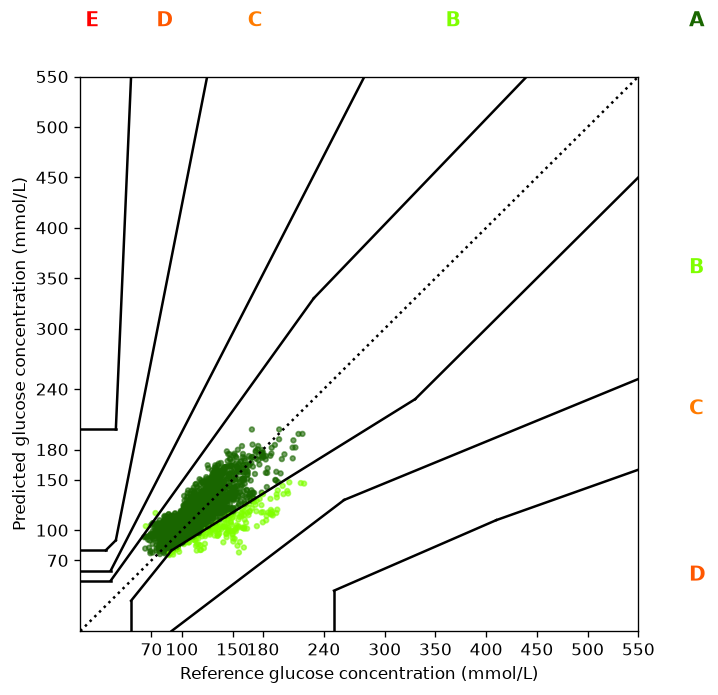
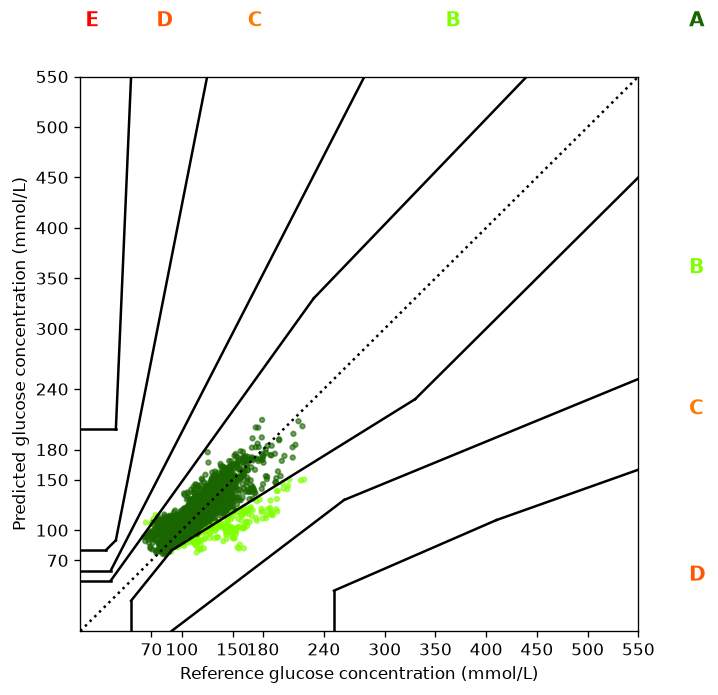
Delta-over-persistence target + heavier regularization (per-user tuning)
Diagnostic on the real user showed the model wins on excursions (skill +0.27)
but over-reacts on quiet periods (skill -1.98, ~15 mg/dL error where persistence
has ~5), dragging aggregate skill down.

- features.predict_delta (default on): model targets y_{t+h} − g_t and adds
  persistence back at inference. Threaded through lgbm / events / personalize and
  every harness call site (pred fns still return absolute mg/dL).
  Honest result: near-neutral on its own — lag_0 was already a feature, so the
  absolute model was effectively persistence+correction. Kept (principled; makes
  time-since-meal / circadian / rate the top features, matching §Phase 2).
- _make_regressor: heavier regularization (num_leaves 31→16, min_child 50→120,
  reg_lambda 1→4, lr 0.05→0.04). Curbs quiet-period over-reaction. Improves BOTH
  synth (P2 skill 0.212/0.172 → 0.219/0.183) and real per-user (ALL skill @30
  +0.152 → +0.167); Phases 2-4 DoDs still pass.

Test updated: with delta, context/dynamics features drive the model (not lag_0).
The quiet-row gap is largely fundamental (persistence sits at the CGM noise
floor there). pytest green (66); reports regenerated.

Changed region(s): [[0.2758, 0.6043, 0.429, 0.8158], [0.1838, 0.7252, 0.2758, 0.8158], [0.2451, 0.695, 0.2758, 0.7252]]

diff --git a/src/insulink_predictor/eval/harness.py b/src/insulink_predictor/eval/harness.py
@@ -149,7 +149,7 @@ def run_lgbm_eval(cfg: Config, df: pd.DataFrame | None = None, write: bool = Tru
     train, test = chronological_split(sup, cfg.split.test_fraction)
 
     models = train_lgbm(train, feature_cols, cfg)
-    pred_fn = make_pred_fn(models, feature_cols)
+    pred_fn = make_pred_fn(models, feature_cols, cfg.features.predict_delta)
 
     ref = persistence_ref_rmse(test, cfg.horizons_steps)
     lgbm_m = score_predictions(test, cfg, pred_fn, ref_rmse=ref)
@@ -241,7 +241,7 @@ def _curve_examples(test, curve_models, feature_cols, cfg, max_step=None, n=3, a
     examples = []
     for j in picks:
         row = test.iloc[[j]]
-        pred = forecast_curve(row, curve_models, feature_cols)[0][:max_step]
+        pred = forecast_curve(row, curve_models, feature_cols, cfg.features.predict_delta)[0][:max_step]
         actual = [float(test.iloc[j][f"cy_{k}"]) for k in range(1, max_step + 1)]
         ts = pd.Timestamp(test.iloc[j]["ts_local"]).strftime("%a %d.%m %H:%M")
         tag = "meal" if bool(test.iloc[j].get("event_meal", False)) else "t"
@@ -266,7 +266,7 @@ def _curve_metrics(test, cfg, curve_models, feature_cols, max_step) -> pd.DataFr
     """
     from ..models.events import forecast_curve
 
-    yhat = forecast_curve(test, curve_models, feature_cols)[:, max_step - 1]
+    yhat = forecast_curve(test, curve_models, feature_cols, cfg.features.predict_delta)[:, max_step - 1]
     yt = test[f"cy_{max_step}"].to_numpy()
     g_t = test["glucose_mgdl"].to_numpy()  # persistence prediction
     valid = test[f"cvalid_{max_step}"].to_numpy()
@@ -311,7 +311,7 @@ def run_curve(cfg, df=None, horizon_min=60, n=3, at=None, out=None, metrics=Fals
         return {"examples": [], "n_train": len(train), "n_test": len(test), "out": None,
                 "metrics": None, "reason": "not enough data to train/forecast this range"}
 
-    curve_models = train_curve_models(train, feature_cols, max_step)
+    curve_models = train_curve_models(train, feature_cols, max_step, cfg.features.predict_delta)
     examples = _curve_examples(test, curve_models, feature_cols, cfg, max_step=max_step, n=n, at=at)
 
     out = Path(out) if out else Path(cfg.paths.reports_dir) / f"curves_{horizon_min}min.png"
@@ -333,8 +333,8 @@ def run_event_eval(cfg: Config, df: pd.DataFrame | None = None, write: bool = Tr
     sup = detect_events(sup, cfg)
 
     train, test = chronological_split(sup, cfg.split.test_fraction)
-    curve_models = train_curve_models(train, feature_cols, max_step)
-    pred_fn = make_pred_fn(curve_models, feature_cols)  # keyed by step; covers horizons
+    curve_models = train_curve_models(train, feature_cols, max_step, cfg.features.predict_delta)
+    pred_fn = make_pred_fn(curve_models, feature_cols, cfg.features.predict_delta)  # keyed by step
 
     tsm = test["time_since_meal"].to_numpy()
     post_meal = np.isfinite(tsm) & (tsm <= cfg.event.post_event_window_min)
@@ -416,10 +416,12 @@ def run_personalize_eval(cfg: Config, df: pd.DataFrame | None = None, write: boo
     train_c = add_static(train, static)
     cond_models = train_per_horizon(train_c, feature_cols + scols, cfg)
     residual_models = train_residuals(train_c, cond_models, feature_cols, scols, cfg)
-    personalized = PersonalizedModel(cond_models, residual_models, feature_cols, scols, static)
+    personalized = PersonalizedModel(cond_models, residual_models, feature_cols, scols, static,
+                                     predict_delta=cfg.features.predict_delta)
 
     def global_pred(d, h):
-        return global_models[h].predict(d[feature_cols])
+        pred = global_models[h].predict(d[feature_cols])
+        return pred + d["glucose_mgdl"].to_numpy() if cfg.features.predict_delta else pred
 
     gu = per_user_skill(test, cfg, global_pred, "global")
     pu = per_user_skill(test, cfg, personalized.predict, "personalized")

diff --git a/src/insulink_predictor/models/personalize.py b/src/insulink_predictor/models/personalize.py
@@ -73,22 +73,28 @@ def add_static(df: pd.DataFrame, static: pd.DataFrame) -> pd.DataFrame:
 
 
 def train_per_horizon(train: pd.DataFrame, cols: list[str], cfg: Config) -> dict[int, LGBMRegressor]:
+    delta = cfg.features.predict_delta
     models: dict[int, LGBMRegressor] = {}
     for h in cfg.horizons_steps:
         mask = train[f"valid_{h}"].to_numpy()
-        models[h] = _make_regressor().fit(train.loc[mask, cols], train.loc[mask, f"y_{h}"])
+        y = train.loc[mask, f"y_{h}"]
+        if delta:
+            y = y - train.loc[mask, "glucose_mgdl"]
+        models[h] = _make_regressor().fit(train.loc[mask, cols], y)
     return models
 
 
 class PersonalizedModel:
     """Conditioned global base (4a) + per-user residual models (4b)."""
 
-    def __init__(self, cond_models, residual_models, feature_cols, static_cols, static_table):
+    def __init__(self, cond_models, residual_models, feature_cols, static_cols, static_table,
+                 predict_delta: bool = True):
         self.cond_models = cond_models
         self.residual_models = residual_models  # {h: {user_id: model}}
         self.feature_cols = feature_cols
         self.static_cols = static_cols
         self.static_table = static_table
+        self.predict_delta = predict_delta
 
     def predict(self, df: pd.DataFrame, horizon_steps: int) -> np.ndarray:
         d = df.reset_index(drop=True)
@@ -96,7 +102,9 @@ class PersonalizedModel:
         base = self.cond_models[horizon_steps].predict(
             merged[self.feature_cols + self.static_cols]
         ).astype(float)
-        # add the per-user residual where a model exists; cold-start users → +0
+        if self.predict_delta:
+            base = base + d["glucose_mgdl"].to_numpy()  # delta → absolute
+        # add the per-user (absolute) residual where a model exists; cold-start → +0
         for uid, rmodel in self.residual_models.get(horizon_steps, {}).items():
             m = (d["user_id"] == uid).to_numpy()
             if m.any():
@@ -106,10 +114,13 @@ class PersonalizedModel:
 
 def train_residuals(train_c, cond_models, feature_cols, static_cols, cfg) -> dict:
     """Fit a tiny residual model per (horizon, user) on that user's train residuals."""
+    delta = cfg.features.predict_delta
     residual_models: dict[int, dict] = {}
     for h in cfg.horizons_steps:
         base = cond_models[h].predict(train_c[feature_cols + static_cols]).astype(float)
-        tc = train_c.assign(_base=base, _resid=train_c[f"y_{h}"] - base)
+        if delta:
+            base = base + train_c["glucose_mgdl"].to_numpy()  # absolute base
+        tc = train_c.assign(_resid=train_c[f"y_{h}"] - base)  # residual is absolute
         residual_models[h] = {}
         for uid, gdf in tc.groupby("user_id"):
             valid = gdf[f"valid_{h}"].to_numpy()

diff --git a/src/insulink_predictor/models/lgbm.py b/src/insulink_predictor/models/lgbm.py
@@ -17,15 +17,18 @@ _SEED = 42
 
 
 def _make_regressor() -> LGBMRegressor:
+    # Regularized to curb over-reaction on quiet periods (real CGM is noisy). This
+    # setting improves both the synthetic DoDs and real per-user skill vs the
+    # lighter default; see diagnostics in the per-user analysis.
     return LGBMRegressor(
-        n_estimators=400,
-        learning_rate=0.05,
-        num_leaves=31,
-        min_child_samples=50,
+        n_estimators=350,
+        learning_rate=0.04,
+        num_leaves=16,
+        min_child_samples=120,
         subsample=0.8,
         subsample_freq=1,
         colsample_bytree=0.8,
-        reg_lambda=1.0,
+        reg_lambda=4.0,
         random_state=_SEED,
         n_jobs=1,            # deterministic
         deterministic=True,
@@ -35,23 +38,33 @@ def _make_regressor() -> LGBMRegressor:
 
 
 def train_lgbm(train: pd.DataFrame, feature_cols: list[str], cfg: Config) -> dict[int, LGBMRegressor]:
-    """Train one LGBM per horizon on the valid rows of the training split."""
+    """Train one LGBM per horizon on the valid rows of the training split.
+
+    With ``cfg.features.predict_delta`` the target is the change over persistence
+    (y_{t+h} − g_t); persistence is added back at inference.
+    """
+    delta = cfg.features.predict_delta
     models: dict[int, LGBMRegressor] = {}
     for h in cfg.horizons_steps:
         mask = train[f"valid_{h}"].to_numpy()
         X = train.loc[mask, feature_cols]
         y = train.loc[mask, f"y_{h}"]
+        if delta:
+            y = y - train.loc[mask, "glucose_mgdl"]
         model = _make_regressor()
         model.fit(X, y)
         models[h] = model
     return models
 
 
-def make_pred_fn(models: dict[int, LGBMRegressor], feature_cols: list[str]):
-    """Wrap trained models into a harness-compatible ``pred_fn(df, h)``."""
+def make_pred_fn(models: dict[int, LGBMRegressor], feature_cols: list[str], predict_delta: bool = True):
+    """Wrap trained models into a harness-compatible ``pred_fn(df, h)`` (absolute mg/dL)."""
 
     def pred_fn(df: pd.DataFrame, horizon_steps: int) -> np.ndarray:
-        return models[horizon_steps].predict(df[feature_cols])
+        pred = models[horizon_steps].predict(df[feature_cols])
+        if predict_delta:
+            pred = pred + df["glucose_mgdl"].to_numpy()
+        return pred
 
     return pred_fn
 

diff --git a/src/insulink_predictor/models/events.py b/src/insulink_predictor/models/events.py
@@ -48,17 +48,31 @@ def build_curve_targets(df: pd.DataFrame, max_step: int) -> pd.DataFrame:
     return df
 
 
-def train_curve_models(train: pd.DataFrame, feature_cols: list[str], max_step: int) -> dict[int, object]:
-    """Train one LightGBM per step ``1..max_step`` on valid rows."""
+def train_curve_models(
+    train: pd.DataFrame, feature_cols: list[str], max_step: int, predict_delta: bool = True
+) -> dict[int, object]:
+    """Train one LightGBM per step ``1..max_step`` on valid rows.
+
+    With ``predict_delta`` each step's target is the change over persistence
+    (cy_k − g_t), added back in ``forecast_curve``.
+    """
     models: dict[int, object] = {}
     for k in range(1, max_step + 1):
         mask = train[f"cvalid_{k}"].to_numpy()
-        models[k] = _make_regressor().fit(train.loc[mask, feature_cols], train.loc[mask, f"cy_{k}"])
+        y = train.loc[mask, f"cy_{k}"]
+        if predict_delta:
+            y = y - train.loc[mask, "glucose_mgdl"]
+        models[k] = _make_regressor().fit(train.loc[mask, feature_cols], y)
     return models
 
 
-def forecast_curve(df: pd.DataFrame, models: dict[int, object], feature_cols: list[str]) -> np.ndarray:
-    """Return the predicted trajectory, shape ``(n_rows, max_step)``."""
+def forecast_curve(
+    df: pd.DataFrame, models: dict[int, object], feature_cols: list[str], predict_delta: bool = True
+) -> np.ndarray:
+    """Return the predicted trajectory in absolute mg/dL, shape ``(n_rows, max_step)``."""
     X = df[feature_cols]
     steps = sorted(models)
-    return np.column_stack([models[k].predict(X) for k in steps])
+    preds = np.column_stack([models[k].predict(X) for k in steps])
+    if predict_delta:
+        preds = preds + df["glucose_mgdl"].to_numpy()[:, None]
+    return preds

diff --git a/tests/test_lgbm.py b/tests/test_lgbm.py
@@ -28,7 +28,13 @@ def test_lgbm_rmse_below_persistence(lgbm_result):
     assert (lg < pe).all()
 
 
-def test_current_glucose_dominates_and_weather_is_low(lgbm_result):
+def test_context_features_drive_delta_and_weather_is_not_top(lgbm_result):
+    # The model predicts the CHANGE over persistence, so context/dynamics features
+    # (time-since-meal, circadian, rate) drive it — not the absolute level.
     fi = lgbm_result["feature_importance"].set_index("feature")["gain_pct"]
-    assert fi["lag_0"] == fi.max()             # current glucose is the top feature
-    assert fi.get("weather_now", 0.0) < 5.0    # weather is a minor feature (§3)
+    drivers = {
+        "time_since_meal", "time_since_activity", "rate_short", "rate_long",
+        "hour_sin", "hour_cos", "roll30_max", "roll60_max", "cob_glucose", "accel",
+    }
+    assert fi.index[0] in drivers, f"top feature {fi.index[0]} not an expected driver"
+    assert "weather_now" not in set(fi.index[:3])  # measured, not believed (§3)

diff --git a/src/insulink_predictor/config.py b/src/insulink_predictor/config.py
@@ -31,6 +31,12 @@ class FeatureConfig(BaseModel):
     default_isf: float = 40.0   # mg/dL per 1U, fallback when a user has no setting
     default_icr: float = 12.0   # g carbs per 1U, fallback
 
+    # Model the CHANGE over persistence (target = y_{t+h} − g_t) instead of the
+    # absolute level. The regularized learner shrinks the delta toward ~0 when
+    # there's no signal, so quiet periods fall back to persistence instead of
+    # adding noise; deviations are reserved for real excursions.
+    predict_delta: bool = True
+
 
 class EventConfig(BaseModel):
     meal_trigger: bool = True

diff --git a/reports/personalization_per_user.md b/reports/personalization_per_user.md
@@ -1,22 +1,22 @@
 | model | user_id | horizon_min | rmse | skill |
 | --- | --- | --- | --- | --- |
-| global | user_0 | 30 | 4.312 | 0.1971 |
-| global | user_0 | 60 | 5.964 | 0.189 |
-| global | user_1 | 30 | 6.205 | 0.1848 |
-| global | user_1 | 60 | 9.737 | 0.1199 |
-| global | user_2 | 30 | 5.455 | 0.1482 |
-| global | user_2 | 60 | 7.279 | 0.0557 |
-| global | user_3 | 30 | 6.379 | 0.1517 |
-| global | user_3 | 60 | 10.063 | 0.0318 |
-| global | user_4 | 30 | 10.293 | 0.1464 |
-| global | user_4 | 60 | 15.845 | 0.0982 |
-| personalized | user_0 | 30 | 4.017 | 0.252 |
-| personalized | user_0 | 60 | 5.493 | 0.2531 |
-| personalized | user_1 | 30 | 6.081 | 0.2011 |
-| personalized | user_1 | 60 | 10.243 | 0.0741 |
-| personalized | user_2 | 30 | 5.348 | 0.165 |
-| personalized | user_2 | 60 | 6.818 | 0.1155 |
-| personalized | user_3 | 30 | 6.281 | 0.1647 |
-| personalized | user_3 | 60 | 9.873 | 0.05 |
-| personalized | user_4 | 30 | 10.422 | 0.1357 |
-| personalized | user_4 | 60 | 16.308 | 0.0719 |
+| global | user_0 | 30 | 4.287 | 0.2018 |
+| global | user_0 | 60 | 6.028 | 0.1804 |
+| global | user_1 | 30 | 5.972 | 0.2153 |
+| global | user_1 | 60 | 9.225 | 0.1661 |
+| global | user_2 | 30 | 5.47 | 0.1459 |
+| global | user_2 | 60 | 7.065 | 0.0835 |
+| global | user_3 | 30 | 6.382 | 0.1513 |
+| global | user_3 | 60 | 9.605 | 0.0758 |
+| global | user_4 | 30 | 10.105 | 0.162 |
+| global | user_4 | 60 | 15.848 | 0.0981 |
+| personalized | user_0 | 30 | 4.007 | 0.254 |
+| personalized | user_0 | 60 | 5.543 | 0.2464 |
+| personalized | user_1 | 30 | 5.835 | 0.2334 |
+| personalized | user_1 | 60 | 9.878 | 0.1071 |
+| personalized | user_2 | 30 | 5.35 | 0.1646 |
+| personalized | user_2 | 60 | 6.776 | 0.121 |
+| personalized | user_3 | 30 | 6.415 | 0.1468 |
+| personalized | user_3 | 60 | 9.616 | 0.0747 |
+| personalized | user_4 | 30 | 10.397 | 0.1377 |
+| personalized | user_4 | 60 | 16.415 | 0.0658 |

diff --git a/reports/feature_importance.md b/reports/feature_importance.md
@@ -1,35 +1,35 @@
 | feature | gain_pct |
 | --- | --- |
-| lag_0 | 51.063 |
-| roll30_max | 10.531 |
-| lag_5 | 8.206 |
-| cob_glucose | 7.234 |
-| time_since_meal | 2.599 |
-| time_since_activity | 2.304 |
-| hour_cos | 2.252 |
-| hour_sin | 2.184 |
-| cob | 1.766 |
-| roll60_min | 1.417 |
-| weather_now | 1.22 |
-| roll30_mean | 1.13 |
-| iob | 0.987 |
-| roll60_max | 0.972 |
-| roll30_min | 0.648 |
-| roll60_std | 0.599 |
-| lag_60 | 0.589 |
-| iob_glucose | 0.549 |
-| steps_60 | 0.504 |
-| roll60_mean | 0.497 |
-| lag_10 | 0.438 |
-| hr_now | 0.403 |
-| rate_long | 0.334 |
-| lag_45 | 0.28 |
-| steps_30 | 0.253 |
-| roll30_std | 0.247 |
-| lag_30 | 0.159 |
-| steps_15 | 0.146 |
-| rate_short | 0.134 |
-| is_weekend | 0.119 |
-| lag_15 | 0.118 |
-| accel | 0.095 |
-| workout_flag | 0.023 |
+| time_since_meal | 13.572 |
+| roll60_mean | 9.45 |
+| cob_glucose | 8.855 |
+| hour_cos | 6.322 |
+| hour_sin | 6.152 |
+| roll60_min | 5.372 |
+| time_since_activity | 5.253 |
+| lag_30 | 5.146 |
+| rate_short | 4.471 |
+| lag_0 | 3.419 |
+| lag_45 | 3.294 |
+| iob | 3.22 |
+| roll60_max | 2.747 |
+| cob | 2.429 |
+| weather_now | 2.355 |
+| roll30_min | 2.129 |
+| roll60_std | 2.113 |
+| lag_60 | 2.082 |
+| steps_60 | 1.463 |
+| roll30_max | 1.153 |
+| iob_glucose | 1.152 |
+| lag_15 | 1.118 |
+| rate_long | 0.944 |
+| lag_5 | 0.917 |
+| roll30_mean | 0.817 |
+| lag_10 | 0.77 |
+| hr_now | 0.756 |
+| accel | 0.684 |
+| steps_30 | 0.608 |
+| roll30_std | 0.547 |
+| steps_15 | 0.443 |
+| is_weekend | 0.234 |
+| workout_flag | 0.013 |

diff --git a/reports/event_skill.md b/reports/event_skill.md
@@ -1,6 +1,6 @@
 | window | horizon_min | n | rmse | rmse_persistence | skill |
 | --- | --- | --- | --- | --- | --- |
-| global | 30 | 2991 | 25.79 | 30.179 | 0.1454 |
-| global | 60 | 2971 | 35.244 | 41.791 | 0.1566 |
-| post_meal | 30 | 633 | 36.717 | 42.215 | 0.1302 |
-| post_meal | 60 | 633 | 45.694 | 57.34 | 0.2031 |
+| global | 30 | 6743 | 7.295 | 8.793 | 0.1704 |
+| global | 60 | 6677 | 10.966 | 12.553 | 0.1265 |
+| post_meal | 30 | 726 | 7.475 | 12.449 | 0.3995 |
+| post_meal | 60 | 722 | 11.033 | 16.338 | 0.3247 |

diff --git a/reports/model_comparison.md b/reports/model_comparison.md
@@ -2,5 +2,5 @@
 | --- | --- | --- | --- | --- | --- |
 | persistence | 30 | 6743 | 8.793 | 5.729 | 0.0 |
 | persistence | 60 | 6677 | 12.553 | 7.99 | 0.0 |
-| lgbm | 30 | 6743 | 7.525 | 4.712 | 0.1443 |
-| lgbm | 60 | 6677 | 11.373 | 7.194 | 0.094 |
+| lgbm | 30 | 6743 | 7.295 | 4.509 | 0.1704 |
+| lgbm | 60 | 6677 | 10.966 | 6.891 | 0.1265 |

diff --git a/reports/personalization_summary.md b/reports/personalization_summary.md
@@ -1,4 +1,4 @@
 | horizon_min | global_mean_skill | personalized_mean_skill | users_improved | n_users |
 | --- | --- | --- | --- | --- |
-| 30.0 | 0.1656 | 0.1837 | 4.0 | 5.0 |
-| 60.0 | 0.0989 | 0.1129 | 3.0 | 5.0 |
+| 30.0 | 0.1753 | 0.1873 | 3.0 | 5.0 |
+| 60.0 | 0.1208 | 0.123 | 2.0 | 5.0 |
